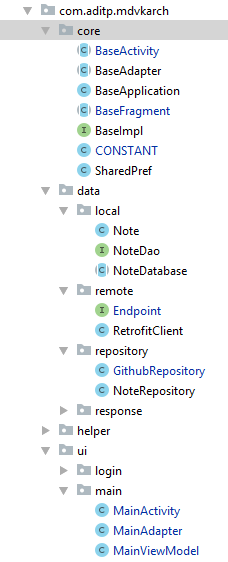
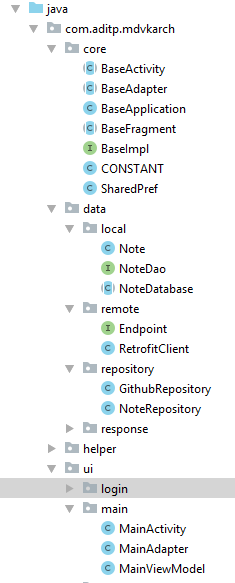
create base fragment, refactor some object, class name . and remove unused class .

diff --git a/app/src/main/java/com/aditp/mdvkarch/helper/MDVKHelper.java b/app/src/main/java/com/aditp/mdvkarch/helper/MDVKHelper.java
@@ -190,7 +190,7 @@ public class MDVKHelper {
         void executeYes();
     }
 
-    public static class DATE_PICKER {
+    public static class DATE_PICKER_HELPER {
         public static void showDatePicker(Context context, TextView textView) {
             DatePickerDialog datePickerDialog;
             SimpleDateFormat dateFormatter = new SimpleDateFormat(formatDate, Locale.US);
@@ -218,7 +218,7 @@ public class MDVKHelper {
         }
     }
 
-    public static class DIALOG_TOOLS {
+    public static class DIALOG_HELPER {
         public static void showAlertDialog(Context context, String title, String msg, String buttonText) {
             AlertDialog alertDialog = new AlertDialog.Builder(context).create();
             alertDialog.setTitle(title);
@@ -402,7 +402,7 @@ public class MDVKHelper {
         }
     }
 
-    public static class NETWORK_TOOLS {
+    public static class NETWORK_HELPER {
         public static boolean isOnline(Context context) {
             ConnectivityManager cm = (ConnectivityManager)
                     context.getSystemService(Context.CONNECTIVITY_SERVICE);
@@ -419,7 +419,7 @@ public class MDVKHelper {
         }
 
         public static void noConnection(final Context context) {
-            DIALOG_TOOLS.showAlertDialog(context,
+            DIALOG_HELPER.showAlertDialog(context,
                     "Servers unreachable",
                     "You seem to have no internet connection, this app requires internet to load the latest content.\n\nYou can continue to see your favorite/offline items!",
                     "OK");
@@ -465,7 +465,7 @@ public class MDVKHelper {
         }
     }
 
-    public static class STRING_TOOLS {
+    public static class STRING_HELPER {
 
         public static String randomString(String field, int count) {
             StringBuilder builder = new StringBuilder();
@@ -747,7 +747,7 @@ public class MDVKHelper {
         }
     }
 
-    public static class WINDOW_TOOLS {
+    public static class WINDOW_HELPER {
         // FULLSCREEN
         public static void setActivityToFullScreen(AppCompatActivity activity) {
             try {
@@ -927,7 +927,7 @@ public class MDVKHelper {
         }
     }
 
-    public static class LocalNotification {
+    public static class LOCAL_NOTIFICATION {
 
         private static NotificationManager notifManager;
 

diff --git a/app/src/main/java/com/aditp/mdvkarch/ui/main/MainActivity.java b/app/src/main/java/com/aditp/mdvkarch/ui/main/MainActivity.java
@@ -54,7 +54,7 @@ public class MainActivity extends BaseActivity<ActivityMainBinding, MainViewMode
     @Override
     public void onActionComponent() {
         loadData();
-        binding.btnFab.setOnClickListener(v -> MDVKHelper.DIALOG_TOOLS.showAboutDialog(this));
+        binding.btnFab.setOnClickListener(v -> MDVKHelper.DIALOG_HELPER.showAboutDialog(this));
         binding.btnOpenNotes.setOnClickListener(view -> startActivity(new Intent(MainActivity.this, NoteActivity.class)));
         binding.swipeRefreshLayout.setOnRefreshListener(() -> {
             loadData();
@@ -105,7 +105,7 @@ public class MainActivity extends BaseActivity<ActivityMainBinding, MainViewMode
                 case R.id.nav_home:
                     break;
                 case R.id.nav_logout:
-                    MDVKHelper.DIALOG_TOOLS.showCustomDialog(MainActivity.this,
+                    MDVKHelper.DIALOG_HELPER.showCustomDialog(MainActivity.this,
                             "Logout",
                             "Would you really like to logout?",
                             new MDVKHelper.ActionDialogListener() {

diff --git a/app/src/main/java/com/aditp/mdvkarch/MDVK.java b/app/src/main/java/com/aditp/mdvkarch/MDVK.java
@@ -12,8 +12,8 @@ import com.aditp.mdvkarch.ui.login.LoginActivity;
 import com.aditp.mdvkarch.ui.main.MainActivity;
 
 import static com.aditp.mdvkarch.core.CONSTANT.KEY_USERNAME;
-import static com.aditp.mdvkarch.helper.MDVKHelper.DIALOG_TOOLS.showCustomDialog;
-import static com.aditp.mdvkarch.helper.MDVKHelper.NETWORK_TOOLS.isOnline;
+import static com.aditp.mdvkarch.helper.MDVKHelper.DIALOG_HELPER.showCustomDialog;
+import static com.aditp.mdvkarch.helper.MDVKHelper.NETWORK_HELPER.isOnline;
 
 public class MDVK extends AppCompatActivity {
 
@@ -30,7 +30,7 @@ public class MDVK extends AppCompatActivity {
     @Override
     protected void onCreate(Bundle savedInstanceState) {
         super.onCreate(savedInstanceState);
-        MDVKHelper.WINDOW_TOOLS.setActivityToFullScreen(this);
+        MDVKHelper.WINDOW_HELPER.setActivityToFullScreen(this);
 
         // check device is online ? -> coz online require
         if (isOnline(this)) {

diff --git a/app/src/main/java/com/aditp/mdvkarch/core/BaseActivity.java b/app/src/main/java/com/aditp/mdvkarch/core/BaseActivity.java
@@ -48,14 +48,14 @@ public abstract class BaseActivity<T extends ViewDataBinding, V extends ViewMode
 
     @Override
     public void isFullScreen(boolean val) {
-        if (val) MDVKHelper.WINDOW_TOOLS.setActivityToFullScreen(this);
+        if (val) MDVKHelper.WINDOW_HELPER.setActivityToFullScreen(this);
     }
 
     @Override
     public void isChangeSystemBarColor(boolean val) {
         if (val) {
-            MDVKHelper.WINDOW_TOOLS.setSystemBarColor(this, R.color.mdvk_white);
-            MDVKHelper.WINDOW_TOOLS.setSystemBarLight(this);
+            MDVKHelper.WINDOW_HELPER.setSystemBarColor(this, R.color.mdvk_white);
+            MDVKHelper.WINDOW_HELPER.setSystemBarLight(this);
         }
     }
 

diff --git a/app/src/main/java/com/aditp/mdvkarch/data/local/NoteDatabase.java b/app/src/main/java/com/aditp/mdvkarch/data/local/NoteDatabase.java
@@ -47,8 +47,8 @@ public abstract class NoteDatabase extends RoomDatabase {
         protected Void doInBackground(Void... voids) {
             for (int i = 0; i < 3; i++) {
                 noteDao.insert(new Note(
-                        MDVKHelper.STRING_TOOLS.randomString("MDVK", 4),
-                        MDVKHelper.STRING_TOOLS.randomString("mdvkMDVK", 50), i));
+                        MDVKHelper.STRING_HELPER.randomString("MDVK", 4),
+                        MDVKHelper.STRING_HELPER.randomString("mdvkMDVK", 50), i));
             }
             return null;
         }

diff --git a/app/src/main/java/com/aditp/mdvkarch/ui/note/NoteActivity.java b/app/src/main/java/com/aditp/mdvkarch/ui/note/NoteActivity.java
@@ -104,7 +104,7 @@ public class NoteActivity extends BaseActivity<ActivityNoteBinding, NoteViewMode
 
         binding.btnFab.setOnClickListener(view -> showAddNoteDialog(this));
         adapter.setOnItemClickListener((view, obj, pos) -> {
-            MDVKHelper.DIALOG_TOOLS.showCustomDialog(this,
+            MDVKHelper.DIALOG_HELPER.showCustomDialog(this,
                     "Delete Note " + obj.getTitle(),
                     "Title : " + obj.getDescription() + "\n" +
                             "Description : " + obj.getPriority(),

diff --git a/app/src/main/java/com/aditp/mdvkarch/ui/login/LoginActivity.java b/app/src/main/java/com/aditp/mdvkarch/ui/login/LoginActivity.java
@@ -47,7 +47,7 @@ public class LoginActivity extends BaseActivity<ActivityLoginBinding, LoginViewM
             } else {
                 viewModel().getUserProfileObservable(owner).observe(this, responseObject -> {
                     if (responseObject == null) {
-                        MDVKHelper.DIALOG_TOOLS.showAlertDialog(
+                        MDVKHelper.DIALOG_HELPER.showAlertDialog(
                                 LoginActivity.this,
                                 "UPS",
                                 "Not Found",

diff --git a/app/src/main/java/com/aditp/mdvkarch/ui/main/MainAdapter.java b/app/src/main/java/com/aditp/mdvkarch/ui/main/MainAdapter.java
@@ -67,7 +67,7 @@ public class MainAdapter extends RecyclerView.Adapter<MainAdapter.onSetUpBinding
 
 
         holder.binding.lytParent.setOnClickListener(view1 -> {
-            MDVKHelper.DIALOG_TOOLS.showCustomDialog(context,
+            MDVKHelper.DIALOG_HELPER.showCustomDialog(context,
                     String.valueOf(items.getFullName()),
                     "Language : " + items.getLanguage() + "\n" +
                             "Star : " + items.getStargazersUrl(),

diff --git a/app/src/main/java/com/aditp/mdvkarch/helper/PermissionHelper.java b/app/src/main/java/com/aditp/mdvkarch/helper/PermissionHelper.java
@@ -90,7 +90,7 @@ public class PermissionHelper {
     }
 
     private static void showMessageWarning(Context context, String msg) {
-        MDVKHelper.DIALOG_TOOLS.showCustomDialog(context,
+        MDVKHelper.DIALOG_HELPER.showCustomDialog(context,
                 "Permissions required!", msg,
                 new MDVKHelper.ActionDialogListener() {
                     @Override

diff --git a/README.md b/README.md
@@ -1,10 +1,10 @@
 
-# MDVK-Arch-Starter 
+# MDVK-Android-Architecture-Starter 
 > PROJECT DATE			:		 **`APRIL 2019`**
 
 
 
-#### 💼 FLOW DIAGRAM
+#### 💼 FLOW DIAGRAM (MVVM)
 
 ![MD|VK](https://raw.githubusercontent.com/abehbatre/MDVK-Arch-Starter/master/architecture.png)
 
@@ -108,4 +108,3 @@
 - [ ] add library Data Binding Validator
 - [ ] Rx Java 2 + Rx Android
 - [ ] Documentation & Wiki
-- [ ] Analytics setup
